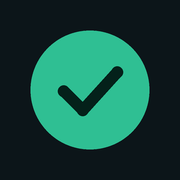
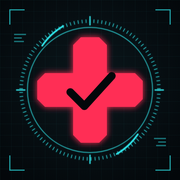
Nowa ikona: czerwony krzyż z ptaszkiem na tle w stylu planu technicznego
Claude-Session: https://claude.ai/code/session_01MPdLYsha9Aq7gx6zayc931

diff --git a/sw.js b/sw.js
@@ -1,6 +1,6 @@
 /* Service worker: aplikacja otwiera się nawet bez internetu (z ostatnimi danymi zapisanymi w przeglądarce).
    Strona i ikony: najpierw sieć, a gdy jej nie ma – kopia z pamięci. Zapytania do arkusza (script.google.com) nie są tu obsługiwane. */
-const CACHE = 'zdrowie-v2-0';   // podbij przy każdej wersji strony (ta sama co CLIENT_VERSION w app.js)
+const CACHE = 'zdrowie-v2-0-ikona';   // podbij przy każdej wersji strony (ta sama co CLIENT_VERSION w app.js)
 const SHELL = ['./', './index.html', './styles.css', './config.js', './skin.js', './rdzen.js', './logika.js', './app.js', './moduly.js', './manifest.webmanifest',
   './icons/icon-192.png', './icons/icon-512.png', './icons/icon-maskable-512.png', './icons/favicon-32.png', './icons/apple-touch-icon.png'];
 

diff --git a/narzedzia/ikony.py b/narzedzia/ikony.py
@@ -1,27 +1,62 @@
-# Rysuje ikony aplikacji (PIL). Uruchom: python3 narzedzia/ikony.py
-import os
-from PIL import Image, ImageDraw
-OUT = os.path.join(os.path.dirname(__file__), '..', 'icons')
-BG, ACC, INK = (12, 21, 25), (47, 191, 147), (4, 33, 26)
+# Ikony aplikacji Zdrowie (od v2.0): czerwony krzyż z ptaszkiem (wariant C) na ciemnym tle w stylu planu technicznego.
+# Rysuje SVG (ikona-A/B/C.svg, wersje -mask do maskowania na Androidzie). PNG w icons/ powstały przez zrzut SVG w przeglądarce
+# (512, 192, 180 dla iPhone'a, maskowalna 512) i uproszczoną wersję 32 px. Źródło: icons/ikona.svg.
+import sys
+CYAN = '#2fe3e8'; RED = '#ff2d55'; BG1 = '#0b171c'; BG2 = '#03070a'
 
-def ikona(size, maskable=False, radius=True):
-    S = size * 4                                   # rysujemy 4x większe i zmniejszamy (gładkie krawędzie)
-    im = Image.new('RGBA', (S, S), (0, 0, 0, 0))
-    d = ImageDraw.Draw(im)
-    if maskable or not radius: d.rectangle([0, 0, S, S], fill=BG)
-    else: d.rounded_rectangle([0, 0, S - 1, S - 1], radius=int(S * 0.22), fill=BG)
-    r = S * (0.27 if maskable else 0.33)           # maskowalna: znak w bezpiecznym środku
-    c = S / 2
-    d.ellipse([c - r, c - r, c + r, c + r], fill=ACC)
-    w = int(r * 0.2)
-    pts = [(c - r * 0.44, c + r * 0.02), (c - r * 0.12, c + r * 0.34), (c + r * 0.46, c - r * 0.30)]
-    d.line(pts, fill=INK, width=w, joint='curve')
-    for x, y in pts: d.ellipse([x - w / 2, y - w / 2, x + w / 2, y + w / 2], fill=INK)
-    return im.resize((size, size), Image.LANCZOS)
+def tlo(maskowalna=False):
+    s = f'''<defs>
+  <radialGradient id="bg" cx="50%" cy="46%" r="70%"><stop offset="0" stop-color="{BG1}"/><stop offset="1" stop-color="{BG2}"/></radialGradient>
+  <filter id="glow" x="-30%" y="-30%" width="160%" height="160%"><feGaussianBlur stdDeviation="9" result="b"/><feMerge><feMergeNode in="b"/><feMergeNode in="SourceGraphic"/></feMerge></filter>
+  <filter id="cglow" x="-10%" y="-10%" width="120%" height="120%"><feGaussianBlur stdDeviation="1.6" result="b"/><feMerge><feMergeNode in="b"/><feMergeNode in="SourceGraphic"/></feMerge></filter>
+  <pattern id="grid" width="32" height="32" patternUnits="userSpaceOnUse"><path d="M32 0H0V32" fill="none" stroke="{CYAN}" stroke-opacity=".10" stroke-width="1"/></pattern>
+</defs>
+<rect width="512" height="512" fill="url(#bg)"/>
+<rect width="512" height="512" fill="url(#grid)"/>'''
+    # pierścień skanera z podziałką
+    s += f'''<g fill="none" stroke="{CYAN}" filter="url(#cglow)">
+  <circle cx="256" cy="256" r="178" stroke-opacity=".55" stroke-width="2"/>
+  <circle cx="256" cy="256" r="196" stroke-opacity=".7" stroke-width="10" stroke-dasharray="1.5 9.75"/>
+  <path d="M256 46v26M256 440v26M46 256h26M440 256h26" stroke-opacity=".8" stroke-width="3"/>
+  <path d="M120 130a190 190 0 0 1 60-56" stroke-opacity=".9" stroke-width="4" stroke-linecap="round"/>
+  <path d="M392 382a190 190 0 0 1-60 56" stroke-opacity=".9" stroke-width="4" stroke-linecap="round"/>
+</g>'''
+    if not maskowalna:
+        # narożniki i bloki „danych” (poza bezpieczną strefą maskowania)
+        s += f'''<g fill="none" stroke="{CYAN}" stroke-opacity=".75" stroke-width="3">
+  <path d="M28 70V28h42M484 70V28h-42M28 442v42h42M484 442v42h-42"/></g>
+<g fill="{CYAN}" fill-opacity=".45">
+  <rect x="40" y="96" width="34" height="4"/><rect x="40" y="106" width="22" height="4"/><rect x="40" y="116" width="28" height="4"/>
+  <rect x="438" y="392" width="34" height="4"/><rect x="450" y="402" width="22" height="4"/><rect x="444" y="412" width="28" height="4"/>
+</g>'''
+    return s
 
-ikona(192).save(os.path.join(OUT, 'icon-192.png'))
-ikona(512).save(os.path.join(OUT, 'icon-512.png'))
-ikona(512, maskable=True).save(os.path.join(OUT, 'icon-maskable-512.png'))
-ikona(32).save(os.path.join(OUT, 'favicon-32.png'))
-ikona(180, radius=False).save(os.path.join(OUT, 'apple-touch-icon.png'))
-print('ikony gotowe')
+def krzyz(w=96, l=300, sciecie=22):
+    a, b, c = w / 2, l / 2, sciecie
+    pts = [(-a, -b + c), (-a + c, -b), (a - c, -b), (a, -b + c), (a, -a), (b - c, -a), (b, -a + c), (b, a - c), (b - c, a), (a, a),
+           (a, b - c), (a - c, b), (-a + c, b), (-a, b - c), (-a, a), (-b + c, a), (-b, a - c), (-b, -a + c), (-b + c, -a), (-a, -a)]
+    return 'M' + ' L'.join(f'{256 + x:.1f} {256 + y:.1f}' for x, y in pts) + ' Z'
+
+def wariant(nr, maskowalna=False):
+    skala = 0.86 if maskowalna else 1
+    g = f'<g transform="translate(256 256) scale({skala}) translate(-256 -256)">'
+    if nr == 'A':      # krzyż z linią pulsu (EKG) wyciętą w poziomym ramieniu
+        g += f'''<path d="{krzyz()}" fill="{RED}" filter="url(#glow)"/>
+<path d="M98 256h96l18-34 26 74 24-92 22 72 14-20h116" fill="none" stroke="{BG2}" stroke-width="13" stroke-linejoin="round" stroke-linecap="round"/>'''
+    elif nr == 'B':    # krzyż przecięty ukośnym cięciem, z obwódką jak z planu
+        g += f'''<path d="{krzyz()}" fill="{RED}" filter="url(#glow)"/>
+<path d="M150 362 362 150" stroke="{BG2}" stroke-width="14"/>
+<path d="{krzyz(132, 336, 30)}" fill="none" stroke="{RED}" stroke-opacity=".55" stroke-width="2.5" stroke-dasharray="14 8"/>'''
+    else:              # krzyż z wyciętym „ptaszkiem” odhaczenia
+        g += f'''<path d="{krzyz()}" fill="{RED}" filter="url(#glow)"/>
+<path d="M200 262l40 40 78-86" fill="none" stroke="{BG2}" stroke-width="22" stroke-linecap="round" stroke-linejoin="round"/>'''
+    return g + '</g>'
+
+def svg(nr, maskowalna=False):
+    return f'<svg xmlns="http://www.w3.org/2000/svg" viewBox="0 0 512 512" width="512" height="512">{tlo(maskowalna)}{wariant(nr, maskowalna)}</svg>'
+
+if __name__ == '__main__':
+    for nr in 'ABC':
+        open(f'ikona-{nr}.svg', 'w').write(svg(nr))
+        open(f'ikona-{nr}-mask.svg', 'w').write(svg(nr, True))
+    print('ok')
